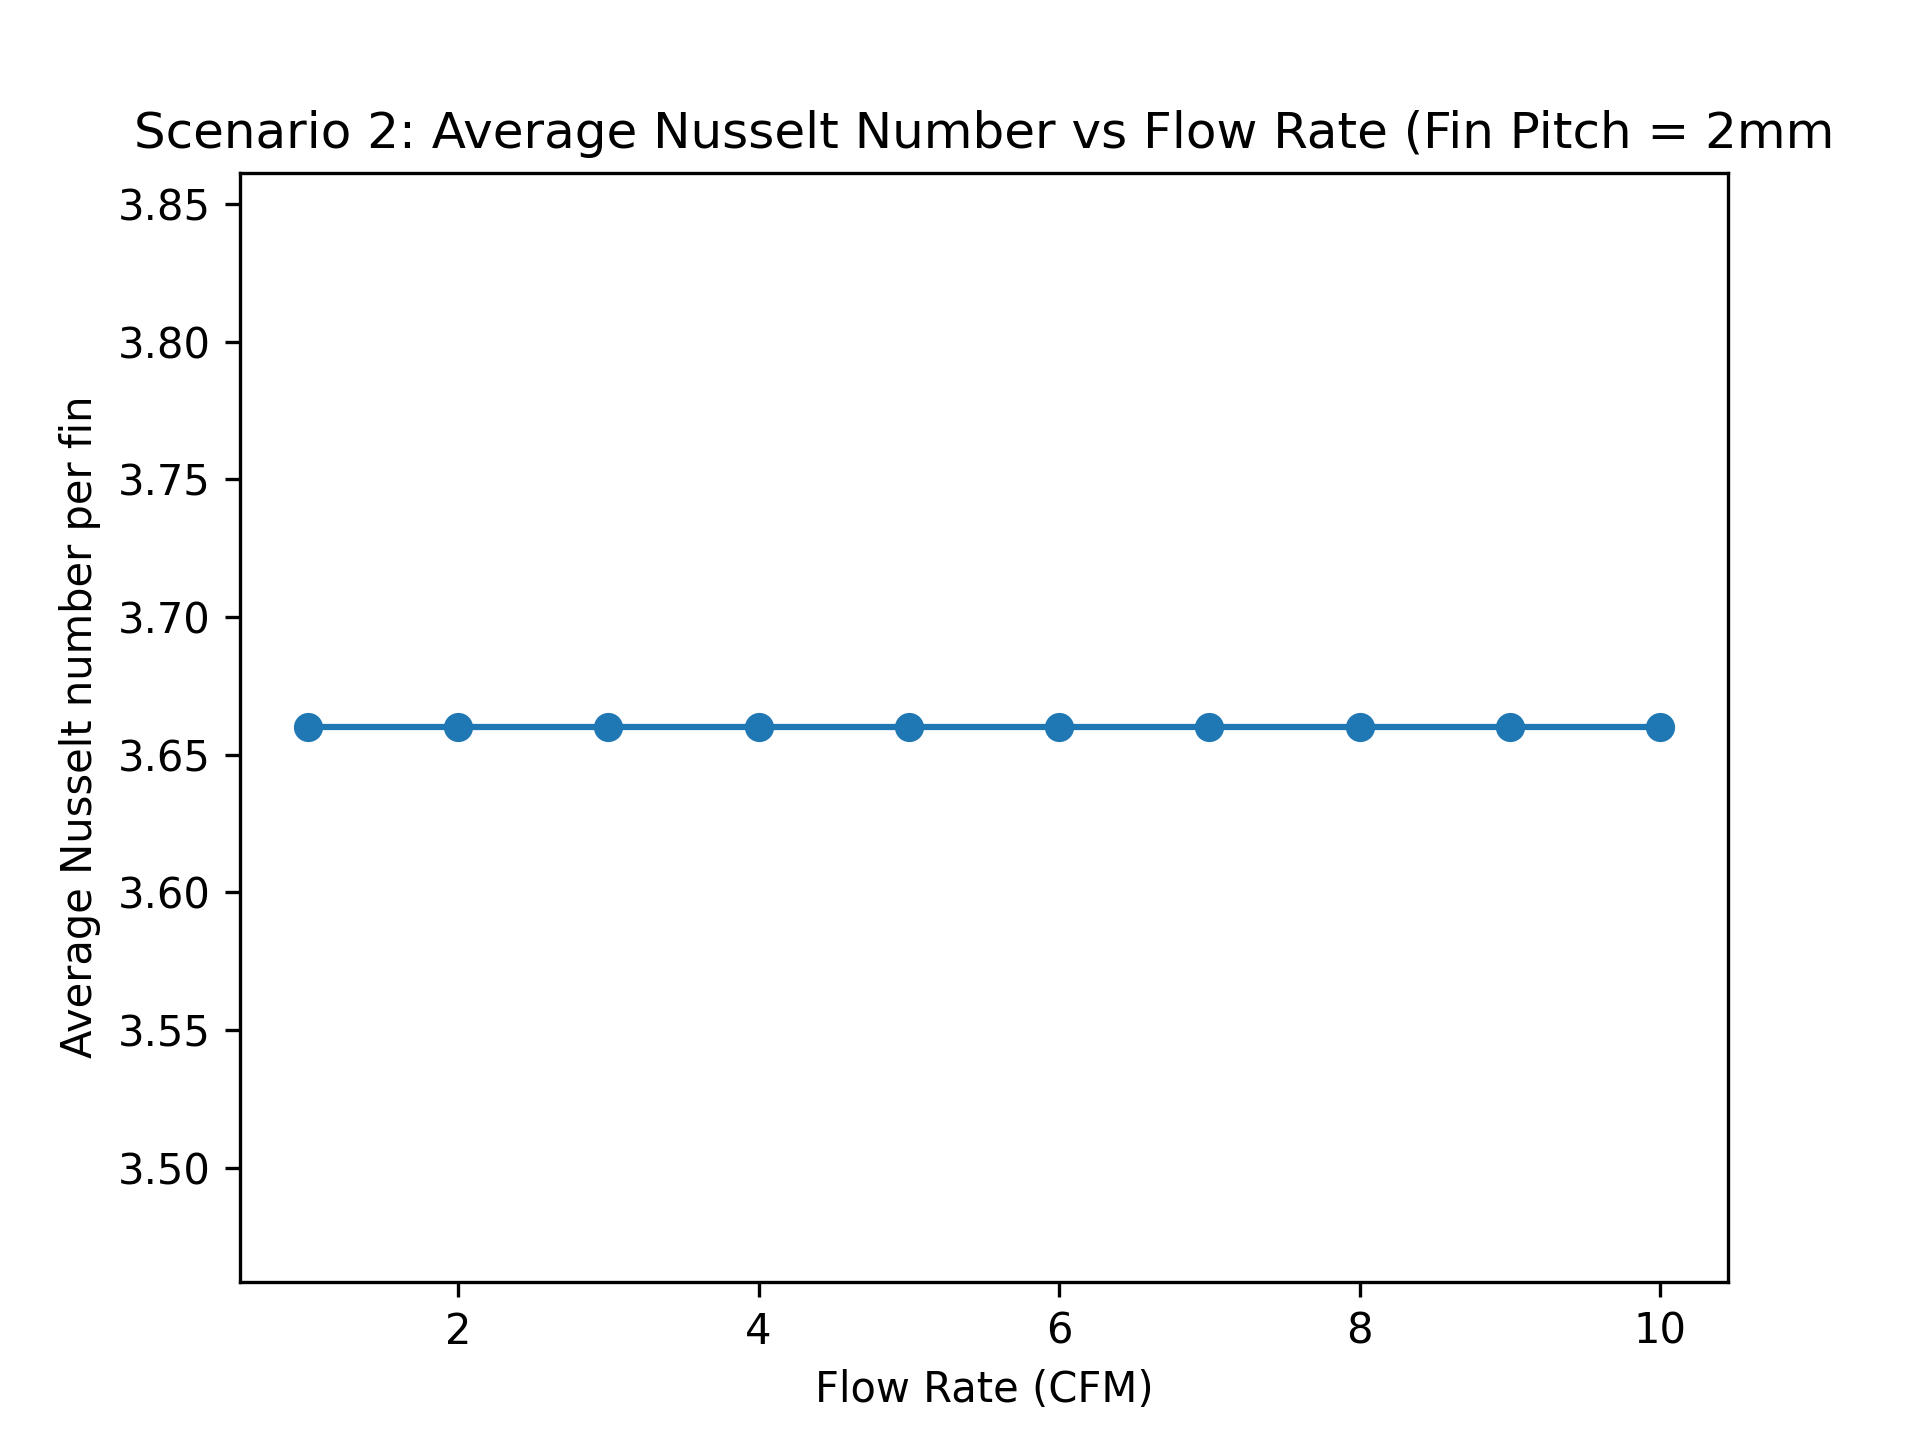
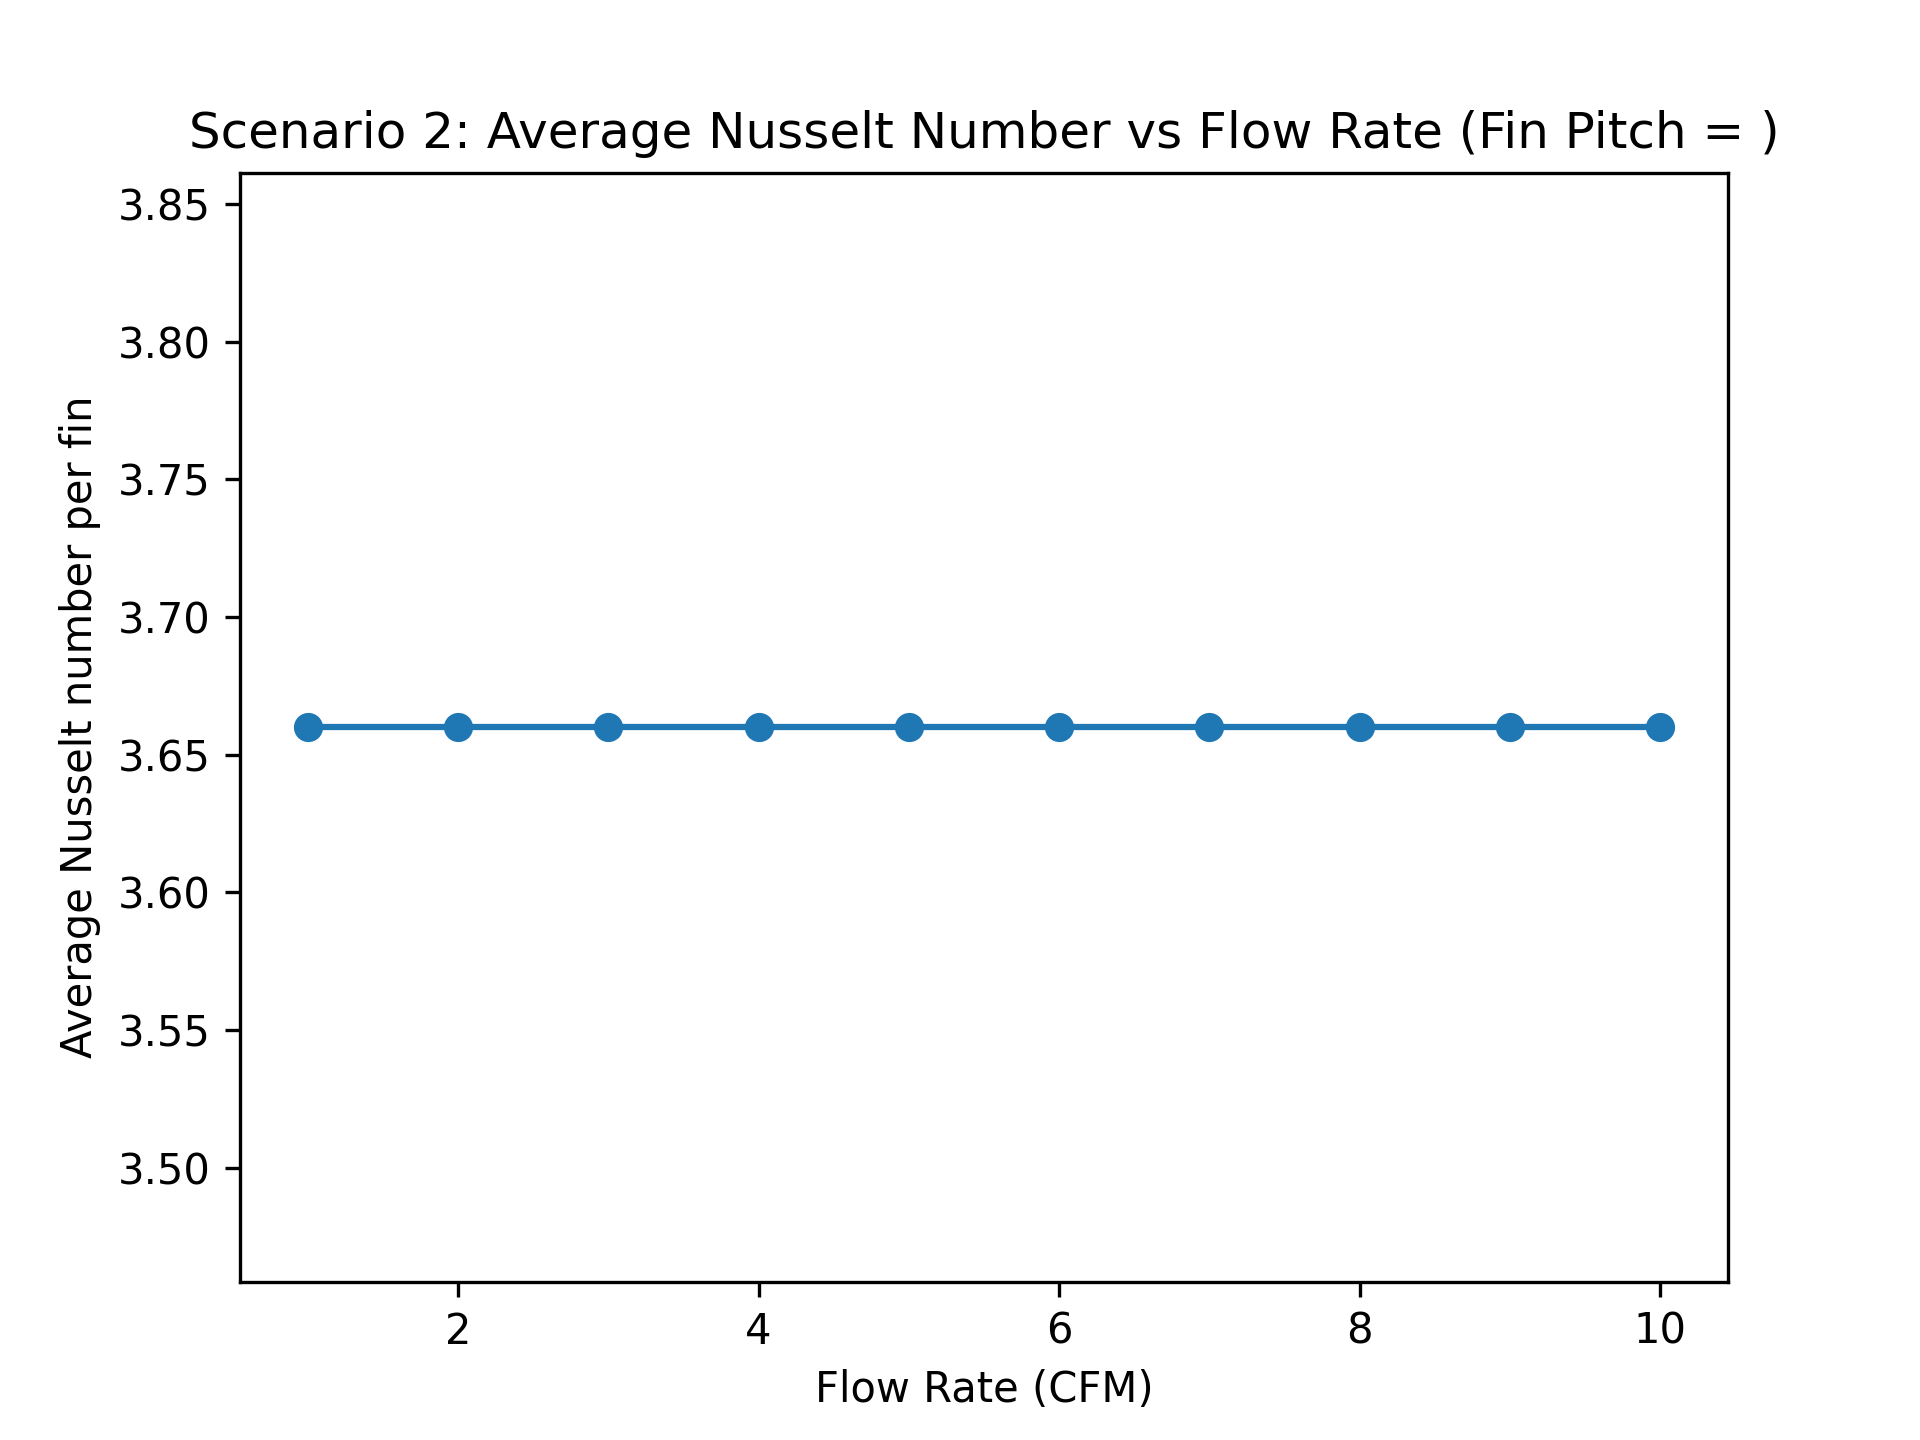
Chart Formatting Changes

Changed region(s): [[0.0625, 0.0625, 0.9375, 0.125]]

diff --git a/Homework_2.py b/Homework_2.py
@@ -141,7 +141,7 @@ def scenario_2():
     plt.plot(flow_range, hA_all, marker='o')
     plt.xlabel('Flow Rate (CFM)')
     plt.ylabel('Heat Transfer Coefficient (hA)')
-    plt.title('Scenario 2: Heat Transfer Coefficient vs Flow Rate (Fin Pitch = 2mm')
+    plt.title('Scenario 2: Heat Transfer Coefficient vs Flow Rate (Fin Pitch = 2mm)')
     plt.savefig('a2_s2_hA_vs_flow_rate.png', dpi=300)
     plt.close()
 
@@ -149,7 +149,7 @@ def scenario_2():
     plt.plot(flow_range, R_conv_all, marker='o')
     plt.xlabel('Flow Rate (CFM)')
     plt.ylabel('Convective Thermal Resistance (1/hA)')
-    plt.title('Scenario 2: Convective Thermal Resistance vs Flow Rate (Fin Pitch = 2mm')
+    plt.title('Scenario 2: Convective Thermal Resistance vs Flow Rate (Fin Pitch = 2mm)')
     plt.savefig('a2_s2_res_vs_flow_rate.png', dpi=300)
     plt.close()
 
@@ -157,7 +157,7 @@ def scenario_2():
     plt.plot(flow_range, Nu_all, marker='o')
     plt.xlabel('Flow Rate (CFM)')
     plt.ylabel('Average Nusselt number per fin')
-    plt.title('Scenario 2: Average Nusselt Number vs Flow Rate (Fin Pitch = 2mm')
+    plt.title('Scenario 2: Average Nusselt Number vs Flow Rate (Fin Pitch = )')
     plt.savefig('a2_s2_Nu_vs_flow_rate.png', dpi=300)
     plt.close()
 
@@ -165,7 +165,7 @@ def scenario_2():
     plt.plot(flow_range, delta_p_all, marker='o')
     plt.xlabel('Flow Rate (CFM)')
     plt.ylabel('Pressure Drop (Pascals)')
-    plt.title('Scenario 2: Pressure Drop vs Flow Rate (Fin Pitch = 2mm')
+    plt.title('Scenario 2: Pressure Drop vs Flow Rate (Fin Pitch = 2mm)')
     plt.savefig('a2_s2_deltaP_vs_flow_rate.png', dpi=300)
     plt.close()
 
@@ -232,7 +232,7 @@ def scenario_3():
     plt.plot(fin_pitches, out_T_all, marker = 'o')
     plt.xlabel('Fin Pitch (m)')
     plt.ylabel('Outlet Air Temperature (degC)')
-    plt.title(f'Outlet Air Temperarture vs Fin Pitch, for Operating Flow Rate')
+    plt.title(f'Outlet Air Temperature vs Fin Pitch, for Operating Flow Rate')
     plt.savefig('a2_s3_pitch_vs_outAirTemp.png', dpi=300)
     plt.close()
 
